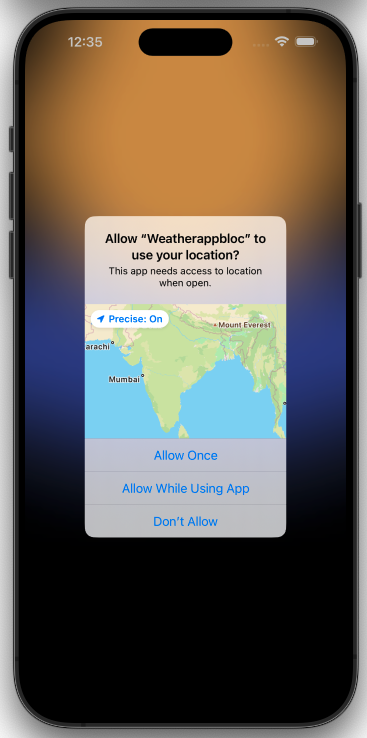
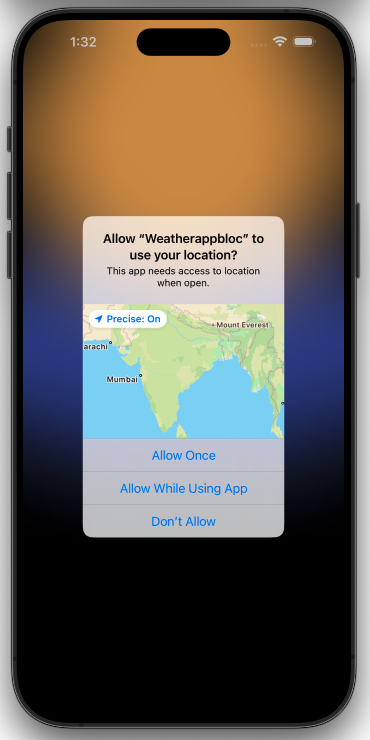
feat: Updated Readme SS

diff --git a/README.md b/README.md
@@ -75,14 +75,18 @@ The app fetches weather data from the OpenWeather API, ensuring accurate and up-
 ## Screenshots
 
 ### Home Screen
+*Show location permission popup
 *Shows current weather details for the selected location.*
-![Screenshot](https://github.com/kamal66/flutter_weather_app/blob/main/screenshots/ss1.png?raw=true)
-![Screenshot](https://github.com/kamal66/flutter_weather_app/blob/main/screenshots/ss2.png?raw=true)
 
 
 ### Weekly Forecast Screen
 *Displays weather forecast for the next 6 days.*
-![Screenshot](https://github.com/kamal66/flutter_weather_app/blob/main/screenshots/ss3.png?raw=true)
+
+<div style="display: flex; justify-content: space-between;">
+  <img src="https://github.com/kamal66/flutter_weather_app/blob/main/screenshots/ss1.png?raw=true" width="250" height="auto" alt="Screenshot 1"/>
+  <img src="https://github.com/kamal66/flutter_weather_app/blob/main/screenshots/ss2.png?raw=true" width="250" height="auto" alt="Screenshot 2"/>
+  <img src="https://github.com/kamal66/flutter_weather_app/blob/main/screenshots/ss3.png?raw=true" width="250" height="auto" alt="Screenshot 3"/>
+</div>
 
 ---
 
